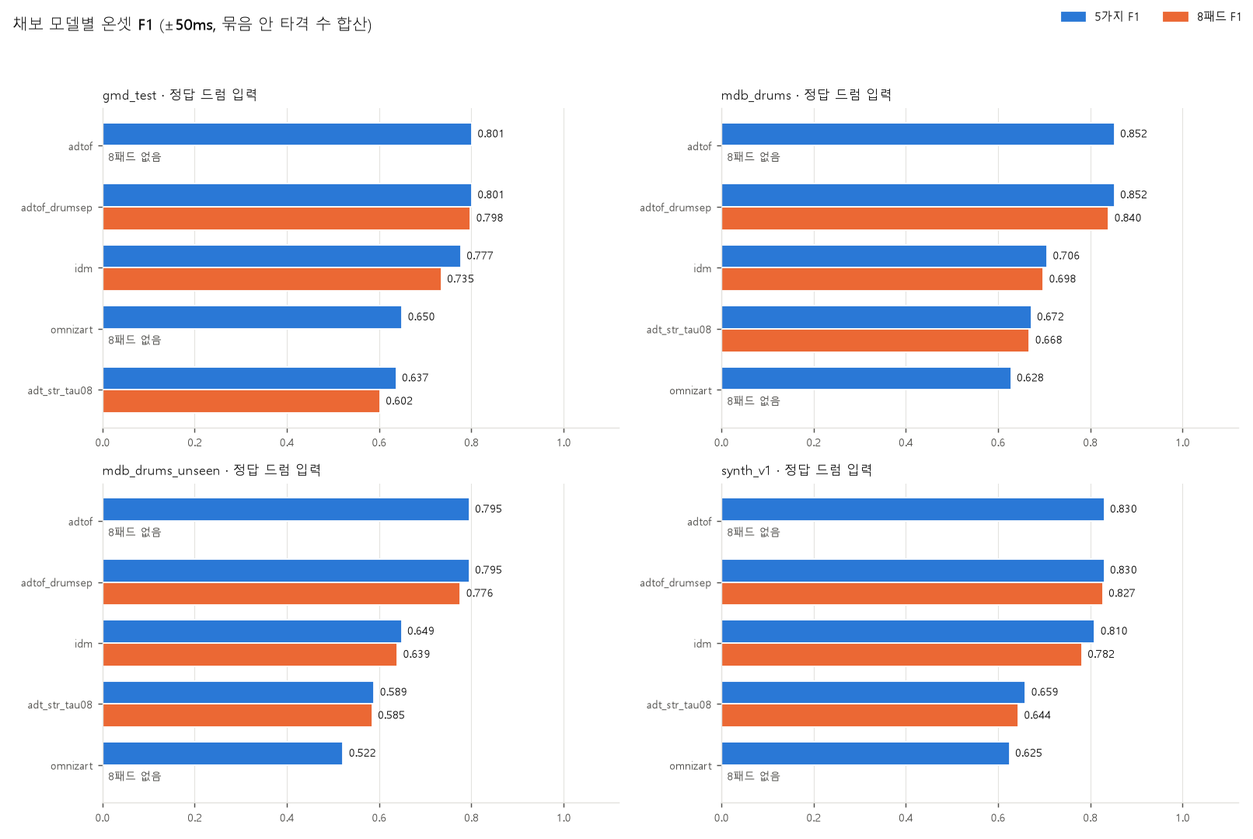
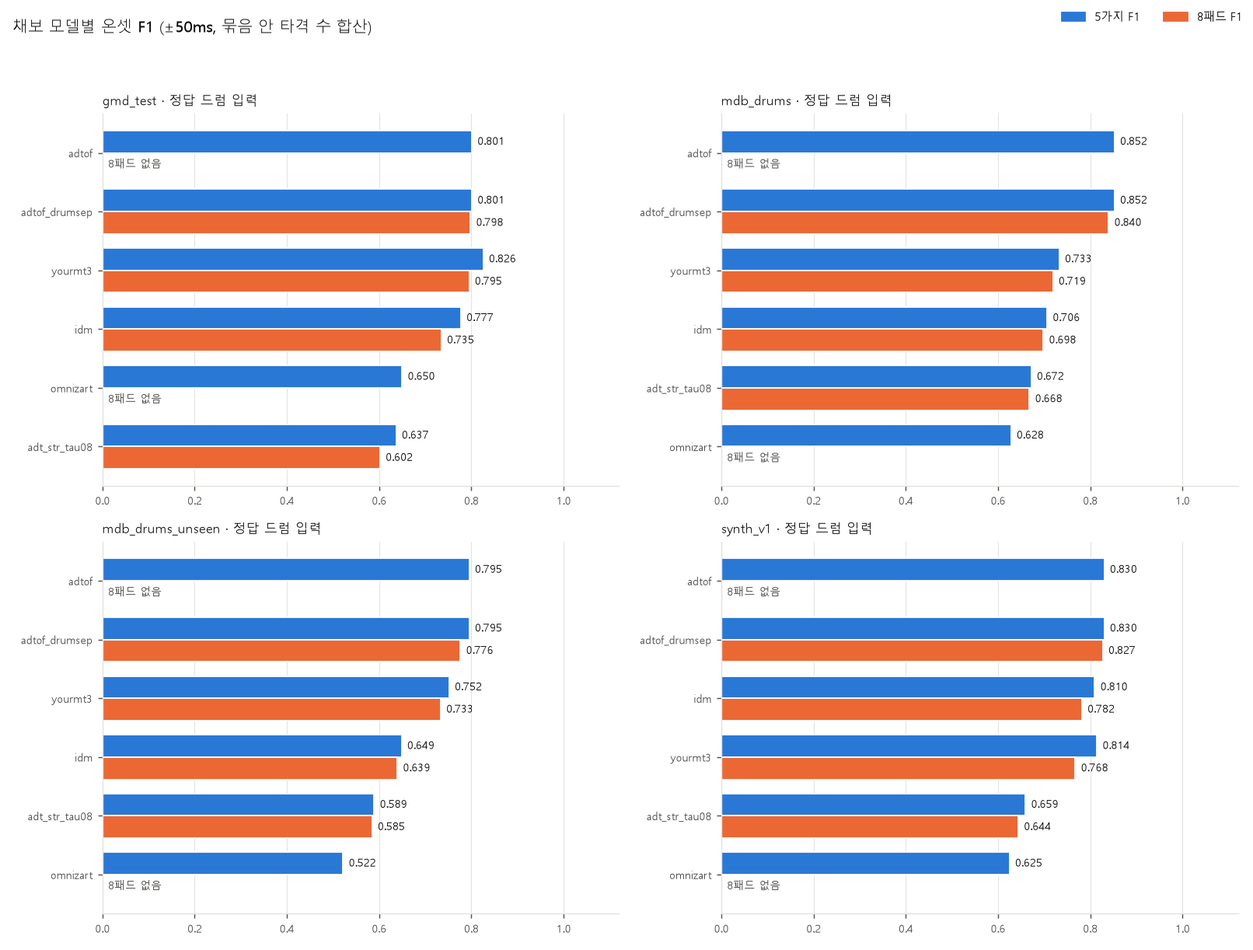
[S15P31A307-110] docs: 채보 벤치마크 결과표에 YourMT3+ 추가

diff --git a/AI/docs/bench/transcription-2026-10-21/summary.md b/AI/docs/bench/transcription-2026-10-21/summary.md
@@ -1,16 +1,17 @@
 # 드럼 채보 벤치마크 요약
 
-run: drums-gmd, drums-mdb, drums-mdbu, drums-synth, mix-mdbu, mix-synth, sep-musdb-mdbu, sep-musdb-synth, sep-sw-mdbu, sep-sw-synth · 행 660개. F1은 묶음 안 모든 곡의 맞힌·헛것·놓친 개수를 더해 계산한 값(곡별 평균 아님)이고 오류가 난 곡은 집계에서 뺀다. 8패드 F1은 8패드를 다 내는 모델만, Perfect 폭 적중률은 ±25ms F1 ÷ ±50ms F1(8패드가 있으면 8패드 기준). 분리 후 F1 변화는 같은 모델의 정답 드럼(drums) 입력 대비 차이. RTF는 채보 시간 ÷ 곡 길이(로드·분리 제외, 곡 중앙값).
+run: drums-gmd, drums-mdb, drums-mdbu, drums-synth, mix-mdbu, mix-synth, sep-musdb-mdbu, sep-musdb-synth, sep-sw-mdbu, sep-sw-synth, ymt3-drums-gmd, ymt3-drums-mdb, ymt3-drums-mdbu, ymt3-drums-synth, ymt3-mix-mdbu, ymt3-mix-synth, ymt3-sep-musdb-mdbu, ymt3-sep-musdb-synth, ymt3-sep-sw-mdbu, ymt3-sep-sw-synth · 행 792개. F1은 묶음 안 모든 곡의 맞힌·헛것·놓친 개수를 더해 계산한 값(곡별 평균 아님)이고 오류가 난 곡은 집계에서 뺀다. 8패드 F1은 8패드를 다 내는 모델만, Perfect 폭 적중률은 ±25ms F1 ÷ ±50ms F1(8패드가 있으면 8패드 기준). 분리 후 F1 변화는 같은 모델의 정답 드럼(drums) 입력 대비 차이. RTF는 채보 시간 ÷ 곡 길이(로드·분리 제외, 곡 중앙값).
 
 ## gmd_test
 
-| 모델 | 입력 | 곡/실패 | 5가지 F1 | 8패드 F1 | 분리 후 F1 변화 | Perfect 폭 적중률 | RTF | 피크 GPU 메모리 (MB) | 가중치 라이선스 |
-| --- | --- | --- | --- | --- | --- | --- | --- | --- | --- |
-| adtof | drums | 45/0 | 0.801 | — | — | 0.975 | 0.005 | 126 | CC BY-NC-SA 4.0 (원본 ADTOF 가중치를 변환한 것) |
-| adtof_drumsep | drums | 45/0 | 0.801 | 0.798 | — | 0.975 | 0.062 | 605 | CC BY-NC-SA 4.0 (ADTOF 가중치) + 미명시 (MDX23C DrumSep 가중치, aufr33·jarredou 공개) |
-| idm | drums | 45/0 | 0.777 | 0.735 | — | 0.996 | 0.002 | 123 | Apache-2.0 (저장소 포함) |
-| omnizart | drums | 45/0 | 0.650 | — | — | 0.914 | 0.308 | 3516 | 명시 없음 (omnizart download-checkpoints로 받음) |
-| adt_str_tau08 | drums | 45/0 | 0.637 | 0.602 | — | 0.968 | 0.179 | 459 | CC BY-SA 4.0 (HF Pierfrancesco/adt-str, 저장소 README 기준) |
+| 모델 | 입력 | 곡/실패 | 5가지 F1 | 8패드 F1 | 분리 후 F1 변화 | Perfect 폭 적중률 | RTF | 피크 GPU 메모리 (MB) | 가중치 라이선스 | GPU |
+| --- | --- | --- | --- | --- | --- | --- | --- | --- | --- | --- |
+| adtof | drums | 45/0 | 0.801 | — | — | 0.975 | 0.005 | 126 | CC BY-NC-SA 4.0 (원본 ADTOF 가중치를 변환한 것) | NVIDIA A100-SXM4-40GB |
+| adtof_drumsep | drums | 45/0 | 0.801 | 0.798 | — | 0.975 | 0.062 | 605 | CC BY-NC-SA 4.0 (ADTOF 가중치) + 미명시 (MDX23C DrumSep 가중치, aufr33·jarredou 공개) | NVIDIA A100-SXM4-40GB |
+| yourmt3 | drums | 45/0 | 0.826 | 0.795 | — | 0.994 | 0.051 | 1978 | Apache-2.0 (HF 모델 저장소 mimbres/YourMT3 README. 학습 데이터 중 MAESTRO·ENST는 비상업 조건) | NVIDIA H200 NVL |
+| idm | drums | 45/0 | 0.777 | 0.735 | — | 0.996 | 0.002 | 123 | Apache-2.0 (저장소 포함) | NVIDIA A100-SXM4-40GB |
+| omnizart | drums | 45/0 | 0.650 | — | — | 0.914 | 0.308 | 3516 | 명시 없음 (omnizart download-checkpoints로 받음) | NVIDIA A100-SXM4-40GB |
+| adt_str_tau08 | drums | 45/0 | 0.637 | 0.602 | — | 0.968 | 0.179 | 459 | CC BY-SA 4.0 (HF Pierfrancesco/adt-str, 저장소 README 기준) | NVIDIA A100-SXM4-40GB |
 
 ### gmd_test 보조값
 
@@ -18,6 +19,7 @@ run: drums-gmd, drums-mdb, drums-mdbu, drums-synth, mix-mdbu, mix-synth, sep-mus
 | --- | --- | --- | --- | --- | --- | --- | --- | --- | --- | --- | --- | --- | --- | --- | --- | --- | --- |
 | adtof | drums | adtof_frame_rnn_pytorch_weights.pth | 0.4M | 0.948 | 0.693 | 0.781 | — | — | — | 0.898 | -7.165 | 8.579 | — | 0.219 | 0.529 | 1406 | 0 |
 | adtof_drumsep | drums | adtof_frame_rnn_pytorch_weights.pth+aufr33-jarredou_DrumSep_model_mdx23c_ep_141_sdr_10.8059.ckpt | 109.8M | 0.948 | 0.693 | 0.781 | 0.944 | 0.691 | 0.778 | 0.898 | -7.177 | 8.579 | — | 2.860 | 1.709 | 2435 | 0 |
+| yourmt3 | drums | mimbres/YourMT3/mc13_256_g4_all_v7_mt3f_sqr_rms_moe_wf4_n8k2_silu_rope_rp_b36_nops@last.ckpt | 47.1M | 0.939 | 0.737 | 0.821 | 0.905 | 0.709 | 0.790 | 0.912 | -0.704 | 4.893 | — | 2.266 | 19.292 | — | 120 |
 | idm | drums | idm-44-train-kits | 0.5M | 0.869 | 0.703 | 0.775 | 0.821 | 0.665 | 0.732 | 0.885 | 0.374 | 2.819 | — | 0.104 | 6.215 | — | 0 |
 | omnizart | drums | omnizart-drum-default | — | 0.760 | 0.567 | 0.594 | — | — | — | 0.822 | -6.078 | 10.229 | — | 14.564 | 7.776 | — | 0 |
 | adt_str_tau08 | drums | Pierfrancesco/adt-str/setting-tau-0.8 | 69.0M | 0.848 | 0.510 | 0.617 | 0.801 | 0.482 | 0.582 | 0.758 | -5.629 | 7.103 | 0.395 | 12.138 | 5.597 | — | 469 |
@@ -29,6 +31,7 @@ run: drums-gmd, drums-mdb, drums-mdbu, drums-synth, mix-mdbu, mix-synth, sep-mus
 | adt_str_tau08 | drums | 0.000 | 0.525 | 0.644 | 0.003 | 0.766 | 0.368 | 0.000 | 0.578 |
 | adtof_drumsep | drums | 0.785 | 0.856 | 0.841 | 0.872 | 0.818 | 0.909 | 0.920 | 0.660 |
 | idm | drums | 0.716 | 0.018 | 0.889 | 0.465 | 0.690 | 0.020 | 0.583 | 0.691 |
+| yourmt3 | drums | 0.549 | 0.504 | 0.788 | 0.554 | 0.909 | 0.376 | 0.702 | 0.824 |
 
 ### gmd_test 5가지별 F1 (±50ms)
 
@@ -39,16 +42,18 @@ run: drums-gmd, drums-mdb, drums-mdbu, drums-synth, mix-mdbu, mix-synth, sep-mus
 | adtof_drumsep | drums | 0.926 | 0.841 | 0.818 | 0.660 | 0.895 |
 | idm | drums | 0.597 | 0.889 | 0.690 | 0.691 | 0.834 |
 | omnizart | drums | 0.000 | 0.759 | 0.815 | 0.496 | 0.000 |
+| yourmt3 | drums | 0.702 | 0.788 | 0.909 | 0.824 | 0.905 |
 
 ## mdb_drums
 
-| 모델 | 입력 | 곡/실패 | 5가지 F1 | 8패드 F1 | 분리 후 F1 변화 | Perfect 폭 적중률 | RTF | 피크 GPU 메모리 (MB) | 가중치 라이선스 |
-| --- | --- | --- | --- | --- | --- | --- | --- | --- | --- |
-| adtof | drums | 23/0 | 0.852 | — | — | 0.979 | 0.005 | 124 | CC BY-NC-SA 4.0 (원본 ADTOF 가중치를 변환한 것) |
-| adtof_drumsep | drums | 23/0 | 0.852 | 0.840 | — | 0.979 | 0.065 | 605 | CC BY-NC-SA 4.0 (ADTOF 가중치) + 미명시 (MDX23C DrumSep 가중치, aufr33·jarredou 공개) |
-| idm | drums | 23/0 | 0.706 | 0.698 | — | 0.985 | 0.002 | 103 | Apache-2.0 (저장소 포함) |
-| adt_str_tau08 | drums | 23/0 | 0.672 | 0.668 | — | 0.974 | 0.102 | 415 | CC BY-SA 4.0 (HF Pierfrancesco/adt-str, 저장소 README 기준) |
-| omnizart | drums | 23/0 | 0.628 | — | — | 0.942 | 0.309 | 3517 | 명시 없음 (omnizart download-checkpoints로 받음) |
+| 모델 | 입력 | 곡/실패 | 5가지 F1 | 8패드 F1 | 분리 후 F1 변화 | Perfect 폭 적중률 | RTF | 피크 GPU 메모리 (MB) | 가중치 라이선스 | GPU |
+| --- | --- | --- | --- | --- | --- | --- | --- | --- | --- | --- |
+| adtof | drums | 23/0 | 0.852 | — | — | 0.979 | 0.005 | 124 | CC BY-NC-SA 4.0 (원본 ADTOF 가중치를 변환한 것) | NVIDIA A100-SXM4-40GB |
+| adtof_drumsep | drums | 23/0 | 0.852 | 0.840 | — | 0.979 | 0.065 | 605 | CC BY-NC-SA 4.0 (ADTOF 가중치) + 미명시 (MDX23C DrumSep 가중치, aufr33·jarredou 공개) | NVIDIA A100-SXM4-40GB |
+| yourmt3 | drums | 23/0 | 0.733 | 0.719 | — | 0.986 | 0.050 | 1978 | Apache-2.0 (HF 모델 저장소 mimbres/YourMT3 README. 학습 데이터 중 MAESTRO·ENST는 비상업 조건) | NVIDIA H200 NVL |
+| idm | drums | 23/0 | 0.706 | 0.698 | — | 0.985 | 0.002 | 103 | Apache-2.0 (저장소 포함) | NVIDIA A100-SXM4-40GB |
+| adt_str_tau08 | drums | 23/0 | 0.672 | 0.668 | — | 0.974 | 0.102 | 415 | CC BY-SA 4.0 (HF Pierfrancesco/adt-str, 저장소 README 기준) | NVIDIA A100-SXM4-40GB |
+| omnizart | drums | 23/0 | 0.628 | — | — | 0.942 | 0.309 | 3517 | 명시 없음 (omnizart download-checkpoints로 받음) | NVIDIA A100-SXM4-40GB |
 
 ### mdb_drums 보조값
 
@@ -56,6 +61,7 @@ run: drums-gmd, drums-mdb, drums-mdbu, drums-synth, mix-mdbu, mix-synth, sep-mus
 | --- | --- | --- | --- | --- | --- | --- | --- | --- | --- | --- | --- | --- | --- | --- | --- | --- | --- |
 | adtof | drums | adtof_frame_rnn_pytorch_weights.pth | 0.4M | 0.866 | 0.839 | 0.834 | — | — | — | 0.946 | -9.520 | 10.400 | — | 0.190 | 0.300 | 1391 | 0 |
 | adtof_drumsep | drums | adtof_frame_rnn_pytorch_weights.pth+aufr33-jarredou_DrumSep_model_mdx23c_ep_141_sdr_10.8059.ckpt | 109.8M | 0.866 | 0.839 | 0.834 | 0.853 | 0.827 | 0.822 | 0.946 | -9.509 | 10.372 | — | 2.457 | 1.747 | 2345 | 0 |
+| yourmt3 | drums | mimbres/YourMT3/mc13_256_g4_all_v7_mt3f_sqr_rms_moe_wf4_n8k2_silu_rope_rp_b36_nops@last.ckpt | 47.1M | 0.786 | 0.686 | 0.722 | 0.771 | 0.673 | 0.709 | 0.846 | -4.567 | 6.733 | — | 2.084 | 19.406 | — | 128 |
 | idm | drums | idm-44-train-kits | 0.5M | 0.695 | 0.718 | 0.695 | 0.687 | 0.709 | 0.687 | 0.803 | -4.311 | 6.666 | — | 0.089 | 5.869 | — | 0 |
 | adt_str_tau08 | drums | Pierfrancesco/adt-str/setting-tau-0.8 | 69.0M | 0.736 | 0.618 | 0.654 | 0.732 | 0.615 | 0.651 | 0.816 | -10.064 | 11.355 | — | 5.148 | 5.877 | — | 226 |
 | omnizart | drums | omnizart-drum-default | — | 0.582 | 0.681 | 0.592 | — | — | — | 0.834 | -10.205 | 11.254 | — | 11.523 | 6.793 | — | 0 |
@@ -67,6 +73,7 @@ run: drums-gmd, drums-mdb, drums-mdbu, drums-synth, mix-mdbu, mix-synth, sep-mus
 | adt_str_tau08 | drums | 0.030 | 0.169 | 0.618 | 0.000 | 0.898 | 0.390 | 0.002 | 0.783 |
 | adtof_drumsep | drums | 0.599 | 0.405 | 0.863 | 0.021 | 0.960 | 0.000 | 0.844 | 0.805 |
 | idm | drums | 0.452 | 0.035 | 0.741 | 0.008 | 0.909 | 0.045 | 0.314 | 0.750 |
+| yourmt3 | drums | 0.414 | 0.199 | 0.576 | 0.062 | 0.907 | 0.000 | 0.599 | 0.819 |
 
 ### mdb_drums 5가지별 F1 (±50ms)
 
@@ -77,31 +84,36 @@ run: drums-gmd, drums-mdb, drums-mdbu, drums-synth, mix-mdbu, mix-synth, sep-mus
 | adtof_drumsep | drums | 0.870 | 0.863 | 0.960 | 0.805 | 0.322 |
 | idm | drums | 0.378 | 0.741 | 0.909 | 0.750 | 0.113 |
 | omnizart | drums | 0.000 | 0.578 | 0.868 | 0.687 | 0.000 |
+| yourmt3 | drums | 0.646 | 0.576 | 0.907 | 0.819 | 0.247 |
 
 ## mdb_drums_unseen
 
-| 모델 | 입력 | 곡/실패 | 5가지 F1 | 8패드 F1 | 분리 후 F1 변화 | Perfect 폭 적중률 | RTF | 피크 GPU 메모리 (MB) | 가중치 라이선스 |
-| --- | --- | --- | --- | --- | --- | --- | --- | --- | --- |
-| adtof | separated(bs_roformer_sw) | 11/0 | 0.799 | — | +0.004 | 0.924 | 0.007 | 1168 | CC BY-NC-SA 4.0 (원본 ADTOF 가중치를 변환한 것) |
-| adtof | drums | 11/0 | 0.795 | — | — | 0.975 | 0.005 | 238 | CC BY-NC-SA 4.0 (원본 ADTOF 가중치를 변환한 것) |
-| adtof | separated(bs_roformer_musdb) | 11/0 | 0.789 | — | -0.007 | 0.931 | 0.007 | 1018 | CC BY-NC-SA 4.0 (원본 ADTOF 가중치를 변환한 것) |
-| adtof_drumsep | separated(bs_roformer_sw) | 11/0 | 0.799 | 0.777 | +0.001 | 0.922 | 0.062 | 1386 | CC BY-NC-SA 4.0 (ADTOF 가중치) + 미명시 (MDX23C DrumSep 가중치, aufr33·jarredou 공개) |
-| adtof_drumsep | drums | 11/0 | 0.795 | 0.776 | — | 0.975 | 0.063 | 658 | CC BY-NC-SA 4.0 (ADTOF 가중치) + 미명시 (MDX23C DrumSep 가중치, aufr33·jarredou 공개) |
-| adtof_drumsep | separated(bs_roformer_musdb) | 11/0 | 0.789 | 0.765 | -0.012 | 0.929 | 0.064 | 1234 | CC BY-NC-SA 4.0 (ADTOF 가중치) + 미명시 (MDX23C DrumSep 가중치, aufr33·jarredou 공개) |
-| adtof | mixture | 11/0 | 0.716 | — | -0.079 | 0.939 | 0.005 | 238 | CC BY-NC-SA 4.0 (원본 ADTOF 가중치를 변환한 것) |
-| adtof_drumsep | mixture | 11/0 | 0.716 | 0.697 | -0.079 | 0.939 | 0.061 | 658 | CC BY-NC-SA 4.0 (ADTOF 가중치) + 미명시 (MDX23C DrumSep 가중치, aufr33·jarredou 공개) |
-| idm | drums | 11/0 | 0.649 | 0.639 | — | 0.983 | 0.002 | 222 | Apache-2.0 (저장소 포함) |
-| idm | separated(bs_roformer_sw) | 11/0 | 0.644 | 0.635 | -0.004 | 0.960 | 0.002 | 222 | Apache-2.0 (저장소 포함) |
-| idm | separated(bs_roformer_musdb) | 11/0 | 0.632 | 0.622 | -0.017 | 0.951 | 0.002 | 222 | Apache-2.0 (저장소 포함) |
-| adt_str_tau08 | drums | 11/0 | 0.589 | 0.585 | — | 0.968 | 0.156 | 463 | CC BY-SA 4.0 (HF Pierfrancesco/adt-str, 저장소 README 기준) |
-| adt_str_tau08 | separated(bs_roformer_sw) | 11/0 | 0.578 | 0.572 | -0.012 | 0.899 | 0.129 | 463 | CC BY-SA 4.0 (HF Pierfrancesco/adt-str, 저장소 README 기준) |
-| adt_str_tau08 | separated(bs_roformer_musdb) | 11/0 | 0.567 | 0.555 | -0.029 | 0.907 | 0.160 | 463 | CC BY-SA 4.0 (HF Pierfrancesco/adt-str, 저장소 README 기준) |
-| omnizart | separated(bs_roformer_sw) | 11/0 | 0.527 | — | +0.005 | 0.880 | 0.277 | 3517 | 명시 없음 (omnizart download-checkpoints로 받음) |
-| omnizart | drums | 11/0 | 0.522 | — | — | 0.924 | 0.291 | 3517 | 명시 없음 (omnizart download-checkpoints로 받음) |
-| omnizart | separated(bs_roformer_musdb) | 11/0 | 0.519 | — | -0.003 | 0.901 | 0.286 | 3517 | 명시 없음 (omnizart download-checkpoints로 받음) |
-| omnizart | mixture | 11/0 | 0.482 | — | -0.040 | 0.872 | 0.277 | 3517 | 명시 없음 (omnizart download-checkpoints로 받음) |
-| idm | mixture | 11/0 | 0.449 | 0.431 | -0.208 | 0.935 | 0.002 | 222 | Apache-2.0 (저장소 포함) |
-| adt_str_tau08 | mixture | 11/0 | 0.375 | 0.346 | -0.238 | 0.856 | 0.199 | 463 | CC BY-SA 4.0 (HF Pierfrancesco/adt-str, 저장소 README 기준) |
+| 모델 | 입력 | 곡/실패 | 5가지 F1 | 8패드 F1 | 분리 후 F1 변화 | Perfect 폭 적중률 | RTF | 피크 GPU 메모리 (MB) | 가중치 라이선스 | GPU |
+| --- | --- | --- | --- | --- | --- | --- | --- | --- | --- | --- |
+| adtof | separated(bs_roformer_sw) | 11/0 | 0.799 | — | +0.004 | 0.924 | 0.007 | 1168 | CC BY-NC-SA 4.0 (원본 ADTOF 가중치를 변환한 것) | NVIDIA A100-SXM4-40GB |
+| adtof | drums | 11/0 | 0.795 | — | — | 0.975 | 0.005 | 238 | CC BY-NC-SA 4.0 (원본 ADTOF 가중치를 변환한 것) | NVIDIA A100-SXM4-40GB |
+| adtof | separated(bs_roformer_musdb) | 11/0 | 0.789 | — | -0.007 | 0.931 | 0.007 | 1018 | CC BY-NC-SA 4.0 (원본 ADTOF 가중치를 변환한 것) | NVIDIA A100-SXM4-40GB |
+| adtof_drumsep | separated(bs_roformer_sw) | 11/0 | 0.799 | 0.777 | +0.001 | 0.922 | 0.062 | 1386 | CC BY-NC-SA 4.0 (ADTOF 가중치) + 미명시 (MDX23C DrumSep 가중치, aufr33·jarredou 공개) | NVIDIA A100-SXM4-40GB |
+| adtof_drumsep | drums | 11/0 | 0.795 | 0.776 | — | 0.975 | 0.063 | 658 | CC BY-NC-SA 4.0 (ADTOF 가중치) + 미명시 (MDX23C DrumSep 가중치, aufr33·jarredou 공개) | NVIDIA A100-SXM4-40GB |
+| adtof_drumsep | separated(bs_roformer_musdb) | 11/0 | 0.789 | 0.765 | -0.012 | 0.929 | 0.064 | 1234 | CC BY-NC-SA 4.0 (ADTOF 가중치) + 미명시 (MDX23C DrumSep 가중치, aufr33·jarredou 공개) | NVIDIA A100-SXM4-40GB |
+| yourmt3 | drums | 11/0 | 0.752 | 0.733 | — | 0.982 | 0.050 | 1982 | Apache-2.0 (HF 모델 저장소 mimbres/YourMT3 README. 학습 데이터 중 MAESTRO·ENST는 비상업 조건) | NVIDIA H200 NVL |
+| adtof | mixture | 11/0 | 0.716 | — | -0.079 | 0.939 | 0.005 | 238 | CC BY-NC-SA 4.0 (원본 ADTOF 가중치를 변환한 것) | NVIDIA A100-SXM4-40GB |
+| adtof_drumsep | mixture | 11/0 | 0.716 | 0.697 | -0.079 | 0.939 | 0.061 | 658 | CC BY-NC-SA 4.0 (ADTOF 가중치) + 미명시 (MDX23C DrumSep 가중치, aufr33·jarredou 공개) | NVIDIA A100-SXM4-40GB |
+| yourmt3 | separated(bs_roformer_sw) | 11/0 | 0.689 | 0.676 | -0.057 | 0.943 | 0.048 | 1982 | Apache-2.0 (HF 모델 저장소 mimbres/YourMT3 README. 학습 데이터 중 MAESTRO·ENST는 비상업 조건) | NVIDIA H200 NVL |
+| idm | drums | 11/0 | 0.649 | 0.639 | — | 0.983 | 0.002 | 222 | Apache-2.0 (저장소 포함) | NVIDIA A100-SXM4-40GB |
+| yourmt3 | separated(bs_roformer_musdb) | 11/0 | 0.648 | 0.635 | -0.098 | 0.948 | 0.047 | 1982 | Apache-2.0 (HF 모델 저장소 mimbres/YourMT3 README. 학습 데이터 중 MAESTRO·ENST는 비상업 조건) | NVIDIA H200 NVL |
+| idm | separated(bs_roformer_sw) | 11/0 | 0.644 | 0.635 | -0.004 | 0.960 | 0.002 | 222 | Apache-2.0 (저장소 포함) | NVIDIA A100-SXM4-40GB |
+| idm | separated(bs_roformer_musdb) | 11/0 | 0.632 | 0.622 | -0.017 | 0.951 | 0.002 | 222 | Apache-2.0 (저장소 포함) | NVIDIA A100-SXM4-40GB |
+| adt_str_tau08 | drums | 11/0 | 0.589 | 0.585 | — | 0.968 | 0.156 | 463 | CC BY-SA 4.0 (HF Pierfrancesco/adt-str, 저장소 README 기준) | NVIDIA A100-SXM4-40GB |
+| yourmt3 | mixture | 11/0 | 0.597 | 0.583 | -0.150 | 0.952 | 0.085 | 1982 | Apache-2.0 (HF 모델 저장소 mimbres/YourMT3 README. 학습 데이터 중 MAESTRO·ENST는 비상업 조건) | NVIDIA H200 NVL |
+| adt_str_tau08 | separated(bs_roformer_sw) | 11/0 | 0.578 | 0.572 | -0.012 | 0.899 | 0.129 | 463 | CC BY-SA 4.0 (HF Pierfrancesco/adt-str, 저장소 README 기준) | NVIDIA A100-SXM4-40GB |
+| adt_str_tau08 | separated(bs_roformer_musdb) | 11/0 | 0.567 | 0.555 | -0.029 | 0.907 | 0.160 | 463 | CC BY-SA 4.0 (HF Pierfrancesco/adt-str, 저장소 README 기준) | NVIDIA A100-SXM4-40GB |
+| omnizart | separated(bs_roformer_sw) | 11/0 | 0.527 | — | +0.005 | 0.880 | 0.277 | 3517 | 명시 없음 (omnizart download-checkpoints로 받음) | NVIDIA A100-SXM4-40GB |
+| omnizart | drums | 11/0 | 0.522 | — | — | 0.924 | 0.291 | 3517 | 명시 없음 (omnizart download-checkpoints로 받음) | NVIDIA A100-SXM4-40GB |
+| omnizart | separated(bs_roformer_musdb) | 11/0 | 0.519 | — | -0.003 | 0.901 | 0.286 | 3517 | 명시 없음 (omnizart download-checkpoints로 받음) | NVIDIA A100-SXM4-40GB |
+| omnizart | mixture | 11/0 | 0.482 | — | -0.040 | 0.872 | 0.277 | 3517 | 명시 없음 (omnizart download-checkpoints로 받음) | NVIDIA A100-SXM4-40GB |
+| idm | mixture | 11/0 | 0.449 | 0.431 | -0.208 | 0.935 | 0.002 | 222 | Apache-2.0 (저장소 포함) | NVIDIA A100-SXM4-40GB |
+| adt_str_tau08 | mixture | 11/0 | 0.375 | 0.346 | -0.238 | 0.856 | 0.199 | 463 | CC BY-SA 4.0 (HF Pierfrancesco/adt-str, 저장소 README 기준) | NVIDIA A100-SXM4-40GB |
 
 ### mdb_drums_unseen 보조값
 
@@ -113,12 +125,16 @@ run: drums-gmd, drums-mdb, drums-mdbu, drums-synth, mix-mdbu, mix-synth, sep-mus
 | adtof_drumsep | separated(bs_roformer_sw) | adtof_frame_rnn_pytorch_weights.pth+aufr33-jarredou_DrumSep_model_mdx23c_ep_141_sdr_10.8059.ckpt | 109.8M | 0.853 | 0.751 | 0.738 | 0.830 | 0.730 | 0.717 | 0.898 | -10.718 | 11.142 | — | 5.467 | 1.128 | 3454 | 0 |
 | adtof_drumsep | drums | adtof_frame_rnn_pytorch_weights.pth+aufr33-jarredou_DrumSep_model_mdx23c_ep_141_sdr_10.8059.ckpt | 109.8M | 0.829 | 0.765 | 0.776 | 0.809 | 0.746 | 0.757 | 0.938 | -9.940 | 10.372 | — | 5.422 | 1.770 | 2882 | 0 |
 | adtof_drumsep | separated(bs_roformer_musdb) | adtof_frame_rnn_pytorch_weights.pth+aufr33-jarredou_DrumSep_model_mdx23c_ep_141_sdr_10.8059.ckpt | 109.8M | 0.832 | 0.750 | 0.734 | 0.806 | 0.727 | 0.711 | 0.894 | -11.025 | 11.432 | — | 5.727 | 1.151 | 3264 | 0 |
+| yourmt3 | drums | mimbres/YourMT3/mc13_256_g4_all_v7_mt3f_sqr_rms_moe_wf4_n8k2_silu_rope_rp_b36_nops@last.ckpt | 47.1M | 0.771 | 0.734 | 0.738 | 0.752 | 0.716 | 0.720 | 0.868 | -5.111 | 7.332 | — | 4.040 | 18.991 | — | 122 |
 | adtof | mixture | adtof_frame_rnn_pytorch_weights.pth | 0.4M | 0.805 | 0.645 | 0.672 | — | — | — | 0.869 | -7.848 | 9.178 | — | 0.409 | 0.296 | 1529 | 0 |
 | adtof_drumsep | mixture | adtof_frame_rnn_pytorch_weights.pth+aufr33-jarredou_DrumSep_model_mdx23c_ep_141_sdr_10.8059.ckpt | 109.8M | 0.805 | 0.645 | 0.672 | 0.784 | 0.628 | 0.654 | 0.869 | -7.848 | 9.049 | — | 5.399 | 1.757 | 2865 | 0 |
+| yourmt3 | separated(bs_roformer_sw) | mimbres/YourMT3/mc13_256_g4_all_v7_mt3f_sqr_rms_moe_wf4_n8k2_silu_rope_rp_b36_nops@last.ckpt | 47.1M | 0.753 | 0.635 | 0.649 | 0.739 | 0.623 | 0.637 | 0.757 | -6.765 | 8.352 | — | 3.922 | 19.194 | — | 63 |
 | idm | drums | idm-44-train-kits | 0.5M | 0.644 | 0.653 | 0.637 | 0.635 | 0.644 | 0.628 | 0.796 | -6.037 | 7.428 | — | 0.196 | 5.721 | — | 0 |
+| yourmt3 | separated(bs_roformer_musdb) | mimbres/YourMT3/mc13_256_g4_all_v7_mt3f_sqr_rms_moe_wf4_n8k2_silu_rope_rp_b36_nops@last.ckpt | 47.1M | 0.705 | 0.601 | 0.615 | 0.690 | 0.588 | 0.602 | 0.782 | -6.618 | 8.281 | — | 3.809 | 19.709 | — | 90 |
 | idm | separated(bs_roformer_sw) | idm-44-train-kits | 0.5M | 0.640 | 0.648 | 0.619 | 0.631 | 0.639 | 0.610 | 0.813 | -6.012 | 7.415 | — | 0.197 | 5.736 | — | 0 |
 | idm | separated(bs_roformer_musdb) | idm-44-train-kits | 0.5M | 0.626 | 0.638 | 0.601 | 0.617 | 0.628 | 0.592 | 0.792 | -5.664 | 7.324 | — | 0.188 | 5.717 | — | 0 |
 | adt_str_tau08 | drums | Pierfrancesco/adt-str/setting-tau-0.8 | 69.0M | 0.656 | 0.535 | 0.571 | 0.651 | 0.530 | 0.566 | 0.812 | -10.692 | 11.355 | — | 16.200 | 5.459 | — | 197 |
+| yourmt3 | mixture | mimbres/YourMT3/mc13_256_g4_all_v7_mt3f_sqr_rms_moe_wf4_n8k2_silu_rope_rp_b36_nops@last.ckpt | 47.1M | 0.690 | 0.526 | 0.568 | 0.674 | 0.513 | 0.555 | 0.762 | -6.059 | 7.633 | — | 7.080 | 20.073 | — | 82 |
 | adt_str_tau08 | separated(bs_roformer_sw) | Pierfrancesco/adt-str/setting-tau-0.8 | 69.0M | 0.656 | 0.516 | 0.520 | 0.649 | 0.511 | 0.514 | 0.786 | -10.806 | 11.492 | — | 8.536 | 5.446 | — | 228 |
 | adt_str_tau08 | separated(bs_roformer_musdb) | Pierfrancesco/adt-str/setting-tau-0.8 | 69.0M | 0.654 | 0.500 | 0.514 | 0.641 | 0.490 | 0.504 | 0.790 | -11.518 | 11.865 | — | 14.049 | 5.468 | — | 223 |
 | omnizart | separated(bs_roformer_sw) | omnizart-drum-default | — | 0.519 | 0.535 | 0.464 | — | — | — | 0.782 | -10.159 | 11.870 | — | 24.693 | 6.693 | — | 0 |
@@ -144,6 +160,10 @@ run: drums-gmd, drums-mdb, drums-mdbu, drums-synth, mix-mdbu, mix-synth, sep-mus
 | idm | mixture | 0.259 | 0.018 | 0.692 | 0.010 | 0.445 | 0.000 | 0.243 | 0.351 |
 | idm | separated(bs_roformer_musdb) | 0.463 | 0.060 | 0.607 | 0.032 | 0.882 | 0.000 | 0.256 | 0.717 |
 | idm | separated(bs_roformer_sw) | 0.469 | 0.075 | 0.617 | 0.031 | 0.903 | 0.033 | 0.268 | 0.719 |
+| yourmt3 | drums | 0.417 | 0.192 | 0.479 | 0.080 | 0.944 | 0.000 | 0.626 | 0.828 |
+| yourmt3 | mixture | 0.472 | 0.100 | 0.414 | 0.026 | 0.776 | 0.031 | 0.488 | 0.655 |
+| yourmt3 | separated(bs_roformer_musdb) | 0.466 | 0.047 | 0.431 | 0.089 | 0.855 | 0.000 | 0.525 | 0.732 |
+| yourmt3 | separated(bs_roformer_sw) | 0.533 | 0.115 | 0.450 | 0.154 | 0.883 | 0.000 | 0.557 | 0.765 |
 
 ### mdb_drums_unseen 5가지별 F1 (±50ms)
 
@@ -169,31 +189,39 @@ run: drums-gmd, drums-mdb, drums-mdbu, drums-synth, mix-mdbu, mix-synth, sep-mus
 | omnizart | mixture | 0.000 | 0.533 | 0.596 | 0.490 | 0.000 |
 | omnizart | separated(bs_roformer_musdb) | 0.000 | 0.511 | 0.729 | 0.554 | 0.000 |
 | omnizart | separated(bs_roformer_sw) | 0.000 | 0.497 | 0.817 | 0.557 | 0.000 |
+| yourmt3 | drums | 0.676 | 0.479 | 0.944 | 0.828 | 0.338 |
+| yourmt3 | mixture | 0.554 | 0.414 | 0.776 | 0.655 | 0.106 |
+| yourmt3 | separated(bs_roformer_musdb) | 0.575 | 0.431 | 0.855 | 0.732 | 0.127 |
+| yourmt3 | separated(bs_roformer_sw) | 0.605 | 0.450 | 0.883 | 0.765 | 0.284 |
 
 ## synth_v1
 
-| 모델 | 입력 | 곡/실패 | 5가지 F1 | 8패드 F1 | 분리 후 F1 변화 | Perfect 폭 적중률 | RTF | 피크 GPU 메모리 (MB) | 가중치 라이선스 |
-| --- | --- | --- | --- | --- | --- | --- | --- | --- | --- |
-| adtof | drums | 5/0 | 0.830 | — | — | 0.964 | 0.005 | 162 | CC BY-NC-SA 4.0 (원본 ADTOF 가중치를 변환한 것) |
-| adtof_drumsep | drums | 5/0 | 0.830 | 0.827 | — | 0.964 | 0.066 | 607 | CC BY-NC-SA 4.0 (ADTOF 가중치) + 미명시 (MDX23C DrumSep 가중치, aufr33·jarredou 공개) |
-| idm | drums | 5/0 | 0.810 | 0.782 | — | 0.997 | 0.002 | 162 | Apache-2.0 (저장소 포함) |
-| adtof | separated(bs_roformer_sw) | 5/0 | 0.780 | — | -0.050 | 0.970 | 0.004 | 871 | CC BY-NC-SA 4.0 (원본 ADTOF 가중치를 변환한 것) |
-| adtof_drumsep | separated(bs_roformer_sw) | 5/0 | 0.780 | 0.778 | -0.049 | 0.970 | 0.063 | 1296 | CC BY-NC-SA 4.0 (ADTOF 가중치) + 미명시 (MDX23C DrumSep 가중치, aufr33·jarredou 공개) |
-| adtof | separated(bs_roformer_musdb) | 5/0 | 0.763 | — | -0.067 | 0.967 | 0.004 | 722 | CC BY-NC-SA 4.0 (원본 ADTOF 가중치를 변환한 것) |
-| adtof_drumsep | separated(bs_roformer_musdb) | 5/0 | 0.763 | 0.762 | -0.065 | 0.967 | 0.065 | 1144 | CC BY-NC-SA 4.0 (ADTOF 가중치) + 미명시 (MDX23C DrumSep 가중치, aufr33·jarredou 공개) |
-| idm | separated(bs_roformer_musdb) | 5/0 | 0.760 | 0.741 | -0.041 | 0.993 | 0.002 | 162 | Apache-2.0 (저장소 포함) |
-| idm | separated(bs_roformer_sw) | 5/0 | 0.750 | 0.730 | -0.052 | 0.994 | 0.002 | 162 | Apache-2.0 (저장소 포함) |
-| adtof | mixture | 5/0 | 0.698 | — | -0.132 | 0.969 | 0.005 | 162 | CC BY-NC-SA 4.0 (원본 ADTOF 가중치를 변환한 것) |
-| adtof_drumsep | mixture | 5/0 | 0.698 | 0.685 | -0.142 | 0.971 | 0.061 | 607 | CC BY-NC-SA 4.0 (ADTOF 가중치) + 미명시 (MDX23C DrumSep 가중치, aufr33·jarredou 공개) |
-| adt_str_tau08 | drums | 5/0 | 0.659 | 0.644 | — | 0.982 | 0.162 | 458 | CC BY-SA 4.0 (HF Pierfrancesco/adt-str, 저장소 README 기준) |
-| omnizart | drums | 5/0 | 0.625 | — | — | 0.929 | 0.296 | 3517 | 명시 없음 (omnizart download-checkpoints로 받음) |
-| omnizart | separated(bs_roformer_musdb) | 5/0 | 0.620 | — | -0.005 | 0.926 | 0.290 | 3517 | 명시 없음 (omnizart download-checkpoints로 받음) |
-| omnizart | separated(bs_roformer_sw) | 5/0 | 0.616 | — | -0.009 | 0.933 | 0.296 | 3517 | 명시 없음 (omnizart download-checkpoints로 받음) |
-| adt_str_tau08 | separated(bs_roformer_sw) | 5/0 | 0.631 | 0.613 | -0.030 | 0.974 | 0.120 | 460 | CC BY-SA 4.0 (HF Pierfrancesco/adt-str, 저장소 README 기준) |
-| adt_str_tau08 | separated(bs_roformer_musdb) | 5/0 | 0.624 | 0.610 | -0.034 | 0.975 | 0.123 | 460 | CC BY-SA 4.0 (HF Pierfrancesco/adt-str, 저장소 README 기준) |
-| omnizart | mixture | 5/0 | 0.584 | — | -0.041 | 0.930 | 0.288 | 3517 | 명시 없음 (omnizart download-checkpoints로 받음) |
-| idm | mixture | 5/0 | 0.502 | 0.495 | -0.287 | 0.980 | 0.002 | 162 | Apache-2.0 (저장소 포함) |
-| adt_str_tau08 | mixture | 5/0 | 0.381 | 0.361 | -0.283 | 0.907 | 0.321 | 460 | CC BY-SA 4.0 (HF Pierfrancesco/adt-str, 저장소 README 기준) |
+| 모델 | 입력 | 곡/실패 | 5가지 F1 | 8패드 F1 | 분리 후 F1 변화 | Perfect 폭 적중률 | RTF | 피크 GPU 메모리 (MB) | 가중치 라이선스 | GPU |
+| --- | --- | --- | --- | --- | --- | --- | --- | --- | --- | --- |
+| adtof | drums | 5/0 | 0.830 | — | — | 0.964 | 0.005 | 162 | CC BY-NC-SA 4.0 (원본 ADTOF 가중치를 변환한 것) | NVIDIA A100-SXM4-40GB |
+| adtof_drumsep | drums | 5/0 | 0.830 | 0.827 | — | 0.964 | 0.066 | 607 | CC BY-NC-SA 4.0 (ADTOF 가중치) + 미명시 (MDX23C DrumSep 가중치, aufr33·jarredou 공개) | NVIDIA A100-SXM4-40GB |
+| idm | drums | 5/0 | 0.810 | 0.782 | — | 0.997 | 0.002 | 162 | Apache-2.0 (저장소 포함) | NVIDIA A100-SXM4-40GB |
+| adtof | separated(bs_roformer_sw) | 5/0 | 0.780 | — | -0.050 | 0.970 | 0.004 | 871 | CC BY-NC-SA 4.0 (원본 ADTOF 가중치를 변환한 것) | NVIDIA A100-SXM4-40GB |
+| adtof_drumsep | separated(bs_roformer_sw) | 5/0 | 0.780 | 0.778 | -0.049 | 0.970 | 0.063 | 1296 | CC BY-NC-SA 4.0 (ADTOF 가중치) + 미명시 (MDX23C DrumSep 가중치, aufr33·jarredou 공개) | NVIDIA A100-SXM4-40GB |
+| yourmt3 | drums | 5/0 | 0.814 | 0.768 | — | 0.997 | 0.056 | 1979 | Apache-2.0 (HF 모델 저장소 mimbres/YourMT3 README. 학습 데이터 중 MAESTRO·ENST는 비상업 조건) | NVIDIA H200 NVL |
+| adtof | separated(bs_roformer_musdb) | 5/0 | 0.763 | — | -0.067 | 0.967 | 0.004 | 722 | CC BY-NC-SA 4.0 (원본 ADTOF 가중치를 변환한 것) | NVIDIA A100-SXM4-40GB |
+| adtof_drumsep | separated(bs_roformer_musdb) | 5/0 | 0.763 | 0.762 | -0.065 | 0.967 | 0.065 | 1144 | CC BY-NC-SA 4.0 (ADTOF 가중치) + 미명시 (MDX23C DrumSep 가중치, aufr33·jarredou 공개) | NVIDIA A100-SXM4-40GB |
+| idm | separated(bs_roformer_musdb) | 5/0 | 0.760 | 0.741 | -0.041 | 0.993 | 0.002 | 162 | Apache-2.0 (저장소 포함) | NVIDIA A100-SXM4-40GB |
+| idm | separated(bs_roformer_sw) | 5/0 | 0.750 | 0.730 | -0.052 | 0.994 | 0.002 | 162 | Apache-2.0 (저장소 포함) | NVIDIA A100-SXM4-40GB |
+| adtof | mixture | 5/0 | 0.698 | — | -0.132 | 0.969 | 0.005 | 162 | CC BY-NC-SA 4.0 (원본 ADTOF 가중치를 변환한 것) | NVIDIA A100-SXM4-40GB |
+| adtof_drumsep | mixture | 5/0 | 0.698 | 0.685 | -0.142 | 0.971 | 0.061 | 607 | CC BY-NC-SA 4.0 (ADTOF 가중치) + 미명시 (MDX23C DrumSep 가중치, aufr33·jarredou 공개) | NVIDIA A100-SXM4-40GB |
+| yourmt3 | separated(bs_roformer_sw) | 5/0 | 0.665 | 0.648 | -0.119 | 0.987 | 0.054 | 1979 | Apache-2.0 (HF 모델 저장소 mimbres/YourMT3 README. 학습 데이터 중 MAESTRO·ENST는 비상업 조건) | NVIDIA H200 NVL |
+| adt_str_tau08 | drums | 5/0 | 0.659 | 0.644 | — | 0.982 | 0.162 | 458 | CC BY-SA 4.0 (HF Pierfrancesco/adt-str, 저장소 README 기준) | NVIDIA A100-SXM4-40GB |
+| omnizart | drums | 5/0 | 0.625 | — | — | 0.929 | 0.296 | 3517 | 명시 없음 (omnizart download-checkpoints로 받음) | NVIDIA A100-SXM4-40GB |
+| omnizart | separated(bs_roformer_musdb) | 5/0 | 0.620 | — | -0.005 | 0.926 | 0.290 | 3517 | 명시 없음 (omnizart download-checkpoints로 받음) | NVIDIA A100-SXM4-40GB |
+| yourmt3 | separated(bs_roformer_musdb) | 5/0 | 0.647 | 0.617 | -0.150 | 0.994 | 0.056 | 1979 | Apache-2.0 (HF 모델 저장소 mimbres/YourMT3 README. 학습 데이터 중 MAESTRO·ENST는 비상업 조건) | NVIDIA H200 NVL |
+| omnizart | separated(bs_roformer_sw) | 5/0 | 0.616 | — | -0.009 | 0.933 | 0.296 | 3517 | 명시 없음 (omnizart download-checkpoints로 받음) | NVIDIA A100-SXM4-40GB |
+| adt_str_tau08 | separated(bs_roformer_sw) | 5/0 | 0.631 | 0.613 | -0.030 | 0.974 | 0.120 | 460 | CC BY-SA 4.0 (HF Pierfrancesco/adt-str, 저장소 README 기준) | NVIDIA A100-SXM4-40GB |
+| adt_str_tau08 | separated(bs_roformer_musdb) | 5/0 | 0.624 | 0.610 | -0.034 | 0.975 | 0.123 | 460 | CC BY-SA 4.0 (HF Pierfrancesco/adt-str, 저장소 README 기준) | NVIDIA A100-SXM4-40GB |
+| omnizart | mixture | 5/0 | 0.584 | — | -0.041 | 0.930 | 0.288 | 3517 | 명시 없음 (omnizart download-checkpoints로 받음) | NVIDIA A100-SXM4-40GB |
+| yourmt3 | mixture | 5/0 | 0.569 | 0.557 | -0.211 | 0.964 | 0.202 | 1979 | Apache-2.0 (HF 모델 저장소 mimbres/YourMT3 README. 학습 데이터 중 MAESTRO·ENST는 비상업 조건) | NVIDIA H200 NVL |
+| idm | mixture | 5/0 | 0.502 | 0.495 | -0.287 | 0.980 | 0.002 | 162 | Apache-2.0 (저장소 포함) | NVIDIA A100-SXM4-40GB |
+| adt_str_tau08 | mixture | 5/0 | 0.381 | 0.361 | -0.283 | 0.907 | 0.321 | 460 | CC BY-SA 4.0 (HF Pierfrancesco/adt-str, 저장소 README 기준) | NVIDIA A100-SXM4-40GB |
 
 ### synth_v1 보조값
 
@@ -204,19 +232,23 @@ run: drums-gmd, drums-mdb, drums-mdbu, drums-synth, mix-mdbu, mix-synth, sep-mus
 | idm | drums | idm-44-train-kits | 0.5M | 0.902 | 0.735 | 0.807 | 0.871 | 0.709 | 0.780 | 0.836 | 0.513 | 3.216 | — | 0.131 | 5.723 | — | 0 |
 | adtof | separated(bs_roformer_sw) | adtof_frame_rnn_pytorch_weights.pth | 0.4M | 0.961 | 0.656 | 0.756 | — | — | — | 0.763 | -8.119 | 8.594 | — | 0.266 | 0.286 | 2631 | 0 |
 | adtof_drumsep | separated(bs_roformer_sw) | adtof_frame_rnn_pytorch_weights.pth+aufr33-jarredou_DrumSep_model_mdx23c_ep_141_sdr_10.8059.ckpt | 109.8M | 0.961 | 0.656 | 0.756 | 0.959 | 0.655 | 0.755 | 0.763 | -8.153 | 8.594 | — | 3.773 | 1.153 | 3067 | 0 |
+| yourmt3 | drums | mimbres/YourMT3/mc13_256_g4_all_v7_mt3f_sqr_rms_moe_wf4_n8k2_silu_rope_rp_b36_nops@last.ckpt | 47.1M | 0.955 | 0.710 | 0.812 | 0.900 | 0.669 | 0.765 | 0.826 | -1.182 | 5.502 | — | 3.015 | 19.281 | — | 13 |
 | adtof | separated(bs_roformer_musdb) | adtof_frame_rnn_pytorch_weights.pth | 0.4M | 0.954 | 0.636 | 0.738 | — | — | — | 0.750 | -8.438 | 8.673 | — | 0.262 | 0.292 | 2433 | 0 |
 | adtof_drumsep | separated(bs_roformer_musdb) | adtof_frame_rnn_pytorch_weights.pth+aufr33-jarredou_DrumSep_model_mdx23c_ep_141_sdr_10.8059.ckpt | 109.8M | 0.954 | 0.636 | 0.738 | 0.952 | 0.635 | 0.737 | 0.750 | -8.459 | 8.695 | — | 3.862 | 1.168 | 2903 | 0 |
 | idm | separated(bs_roformer_musdb) | idm-44-train-kits | 0.5M | 0.853 | 0.685 | 0.754 | 0.832 | 0.668 | 0.736 | 0.818 | -0.453 | 3.999 | — | 0.133 | 5.844 | — | 0 |
 | idm | separated(bs_roformer_sw) | idm-44-train-kits | 0.5M | 0.851 | 0.670 | 0.745 | 0.829 | 0.652 | 0.726 | 0.828 | -0.371 | 3.880 | — | 0.132 | 5.669 | — | 0 |
 | adtof | mixture | adtof_frame_rnn_pytorch_weights.pth | 0.4M | 0.921 | 0.562 | 0.677 | — | — | — | 0.762 | -5.026 | 7.524 | — | 0.265 | 0.286 | 1433 | 0 |
 | adtof_drumsep | mixture | adtof_frame_rnn_pytorch_weights.pth+aufr33-jarredou_DrumSep_model_mdx23c_ep_141_sdr_10.8059.ckpt | 109.8M | 0.921 | 0.562 | 0.677 | 0.905 | 0.552 | 0.666 | 0.762 | -5.026 | 7.418 | — | 3.676 | 1.749 | 2573 | 0 |
+| yourmt3 | separated(bs_roformer_sw) | mimbres/YourMT3/mc13_256_g4_all_v7_mt3f_sqr_rms_moe_wf4_n8k2_silu_rope_rp_b36_nops@last.ckpt | 47.1M | 0.952 | 0.511 | 0.656 | 0.928 | 0.498 | 0.640 | 0.710 | -4.759 | 6.447 | — | 2.743 | 19.584 | — | 59 |
 | adt_str_tau08 | drums | Pierfrancesco/adt-str/setting-tau-0.8 | 69.0M | 0.861 | 0.534 | 0.648 | 0.841 | 0.522 | 0.632 | 0.743 | -5.755 | 7.506 | 0.402 | 7.157 | 5.331 | — | 39 |
 | omnizart | drums | omnizart-drum-default | — | 0.675 | 0.581 | 0.580 | — | — | — | 0.782 | -9.887 | 11.646 | — | 17.444 | 6.635 | — | 0 |
 | omnizart | separated(bs_roformer_musdb) | omnizart-drum-default | — | 0.721 | 0.544 | 0.574 | — | — | — | 0.734 | -10.569 | 11.984 | — | 17.107 | 7.113 | — | 0 |
+| yourmt3 | separated(bs_roformer_musdb) | mimbres/YourMT3/mc13_256_g4_all_v7_mt3f_sqr_rms_moe_wf4_n8k2_silu_rope_rp_b36_nops@last.ckpt | 47.1M | 0.938 | 0.493 | 0.642 | 0.895 | 0.471 | 0.614 | 0.678 | -3.088 | 6.097 | — | 2.931 | 19.289 | — | 63 |
 | omnizart | separated(bs_roformer_sw) | omnizart-drum-default | — | 0.716 | 0.541 | 0.575 | — | — | — | 0.753 | -10.293 | 11.843 | — | 17.389 | 6.683 | — | 0 |
 | adt_str_tau08 | separated(bs_roformer_sw) | Pierfrancesco/adt-str/setting-tau-0.8 | 69.0M | 0.871 | 0.494 | 0.614 | 0.847 | 0.481 | 0.597 | 0.683 | -7.884 | 8.516 | 0.317 | 7.202 | 5.415 | — | 43 |
 | adt_str_tau08 | separated(bs_roformer_musdb) | Pierfrancesco/adt-str/setting-tau-0.8 | 69.0M | 0.854 | 0.492 | 0.609 | 0.834 | 0.480 | 0.594 | 0.700 | -7.719 | 9.079 | 0.320 | 7.387 | 5.388 | — | 38 |
 | omnizart | mixture | omnizart-drum-default | — | 0.637 | 0.539 | 0.543 | — | — | — | 0.704 | -4.753 | 10.641 | — | 17.287 | 6.561 | — | 0 |
+| yourmt3 | mixture | mimbres/YourMT3/mc13_256_g4_all_v7_mt3f_sqr_rms_moe_wf4_n8k2_silu_rope_rp_b36_nops@last.ckpt | 47.1M | 0.736 | 0.464 | 0.548 | 0.719 | 0.454 | 0.537 | 0.722 | -1.663 | 7.130 | — | 12.105 | 20.162 | — | 53 |
 | idm | mixture | idm-44-train-kits | 0.5M | 0.603 | 0.430 | 0.491 | 0.595 | 0.424 | 0.485 | 0.663 | 1.381 | 5.350 | — | 0.137 | 5.683 | — | 0 |
 | adt_str_tau08 | mixture | Pierfrancesco/adt-str/setting-tau-0.8 | 69.0M | 0.406 | 0.360 | 0.343 | 0.384 | 0.341 | 0.328 | 0.596 | -10.413 | 13.691 | 0.033 | 19.226 | 5.391 | — | 688 |
 
@@ -236,6 +268,10 @@ run: drums-gmd, drums-mdb, drums-mdbu, drums-synth, mix-mdbu, mix-synth, sep-mus
 | idm | mixture | 0.359 | 0.148 | 0.678 | 0.077 | 0.345 | 0.047 | 0.295 | 0.497 |
 | idm | separated(bs_roformer_musdb) | 0.211 | 0.471 | 0.845 | 0.342 | 0.833 | 0.000 | 0.556 | 0.674 |
 | idm | separated(bs_roformer_sw) | 0.273 | 0.515 | 0.841 | 0.318 | 0.782 | 0.000 | 0.471 | 0.692 |
+| yourmt3 | drums | 0.571 | 0.407 | 0.710 | 0.481 | 0.848 | 0.188 | 0.837 | 0.858 |
+| yourmt3 | mixture | 0.320 | 0.337 | 0.469 | 0.053 | 0.694 | 0.275 | 0.618 | 0.589 |
+| yourmt3 | separated(bs_roformer_musdb) | 0.250 | 0.451 | 0.465 | 0.185 | 0.749 | 0.175 | 0.706 | 0.709 |
+| yourmt3 | separated(bs_roformer_sw) | 0.414 | 0.503 | 0.533 | 0.577 | 0.744 | 0.364 | 0.750 | 0.708 |
 
 ### synth_v1 5가지별 F1 (±50ms)
 
@@ -261,3 +297,7 @@ run: drums-gmd, drums-mdb, drums-mdbu, drums-synth, mix-mdbu, mix-synth, sep-mus
 | omnizart | mixture | 0.000 | 0.663 | 0.639 | 0.556 | 0.000 |
 | omnizart | separated(bs_roformer_musdb) | 0.000 | 0.718 | 0.733 | 0.532 | 0.000 |
 | omnizart | separated(bs_roformer_sw) | 0.000 | 0.720 | 0.713 | 0.533 | 0.000 |
+| yourmt3 | drums | 0.839 | 0.710 | 0.848 | 0.858 | 0.908 |
+| yourmt3 | mixture | 0.641 | 0.469 | 0.694 | 0.589 | 0.423 |
+| yourmt3 | separated(bs_roformer_musdb) | 0.697 | 0.465 | 0.749 | 0.709 | 0.704 |
+| yourmt3 | separated(bs_roformer_sw) | 0.751 | 0.533 | 0.744 | 0.708 | 0.691 |
